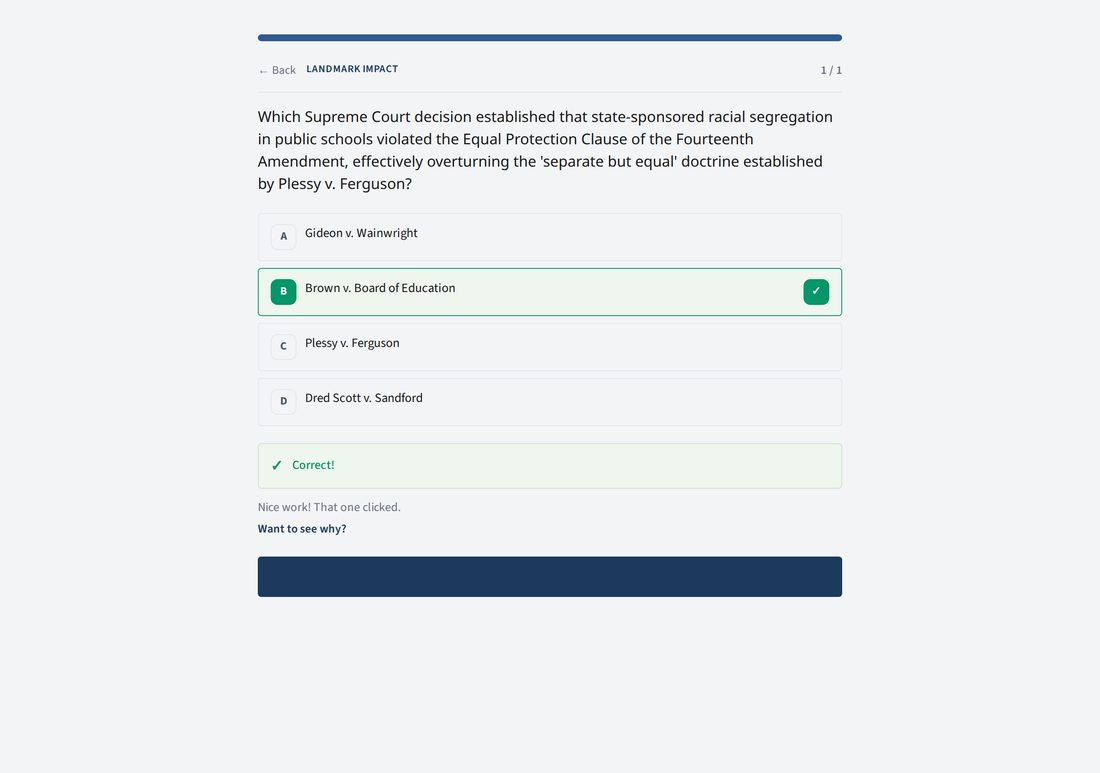
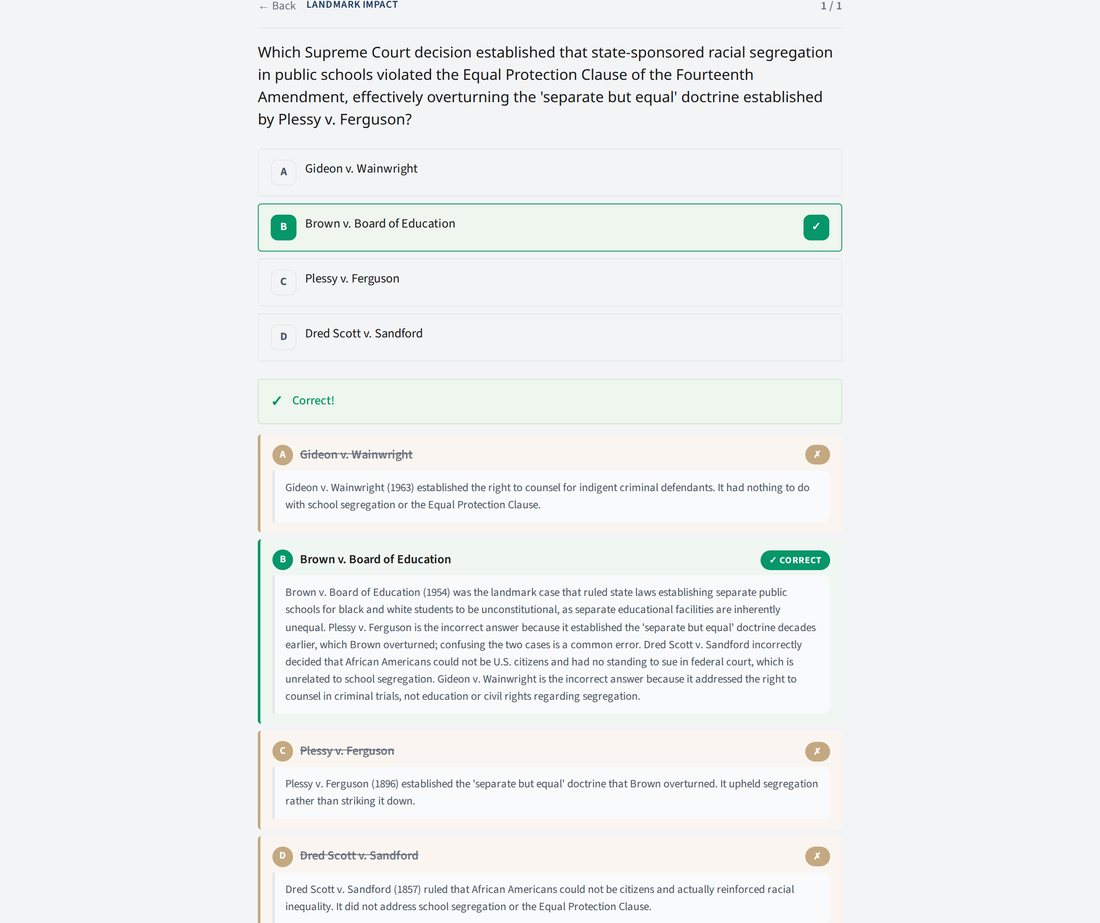
Landing: teach-mode hero mockup, FCLE-style caption, free-beta microline, trim signup steps

diff --git a/templates/landing.html b/templates/landing.html
@@ -48,7 +48,9 @@
   .hero p.sub{font-size:20px;color:var(--muted);max-width:600px;margin:0 0 28px;font-weight:400}
   .hero p.sub strong{color:var(--navy-ink);font-weight:600}
   .hero .btn-gold{font-size:18px;padding:15px 32px}
-  .hero .micro{margin-top:14px;font-size:14px;color:var(--muted)}
+  .hero .micro{margin-top:6px;font-size:14px;color:var(--muted)}
+  .hero .micro:first-of-type{margin-top:14px}
+  .hero .micro strong{color:var(--navy-ink);font-weight:600}
   .hero-shot{position:relative}
   .hero-shot img{width:100%;height:auto;border-radius:16px;box-shadow:0 24px 60px -18px rgba(15,33,54,.38);border:1px solid rgba(255,255,255,.55);display:block}
   .hero-shot .cap{position:absolute;left:16px;bottom:14px;background:rgba(15,33,54,.78);color:#fff;font-size:13px;padding:6px 12px;border-radius:999px;backdrop-filter:blur(4px);letter-spacing:.2px}
@@ -181,11 +183,12 @@
       <h1>Pass the FCLE. Feel ready before test day.</h1>
       <p class="sub">You&rsquo;ve done the coursework. You&rsquo;ve made it this far. One exam stands between you and graduation &mdash; and it&rsquo;s been years since civics class. That&rsquo;s okay. <strong>Sabal is the refresher that actually works.</strong></p>
       <a class="btn btn-gold" href="/signup">Check My FCLE Readiness &rarr;</a>
+      <p class="micro"><strong>Free during beta. No credit card.</strong></p>
       <p class="micro">No password. No download. Start in 30 seconds.</p>
     </div>
     <div class="hero-shot">
       <img src="{{ url_for('static', filename='img/landing-demo.jpg') }}" alt="Sabal practice question with an answer explanation — answers that teach">
-      <span class="cap">Real question &middot; Real explanation</span>
+      <span class="cap">FCLE-style question &middot; Explanation that teaches</span>
     </div>
   </div>
 </section>
@@ -223,23 +226,23 @@
   <div class="wrap">
     <div class="sec-head">
       <h2>Start studying in under a minute.</h2>
-      <p>No password. No download. No &ldquo;verify your email&rdquo; limbo &mdash; just your personal study link.</p>
+      <p>No password. No download. Just your personal study link.</p>
     </div>
     <div class="steps">
       <div class="step">
         <span class="d">1</span>
         <h3>Enter your email</h3>
-        <p>Just your email and display name. Thirty seconds, no quiz.</p>
+        <p>Thirty seconds, no quiz.</p>
       </div>
       <div class="step">
         <span class="d">2</span>
-        <h3>Get your personal study link</h3>
+        <h3>Get your link</h3>
         <p>We hand it to you the moment you register.</p>
       </div>
       <div class="step">
         <span class="d">3</span>
         <h3>Bookmark it &mdash; you&rsquo;re in</h3>
-        <p>Open it on any device and land straight on your dashboard. No forgotten passwords during exam week.</p>
+        <p>Open it on any device, straight to your dashboard.</p>
       </div>
     </div>
   </div>
